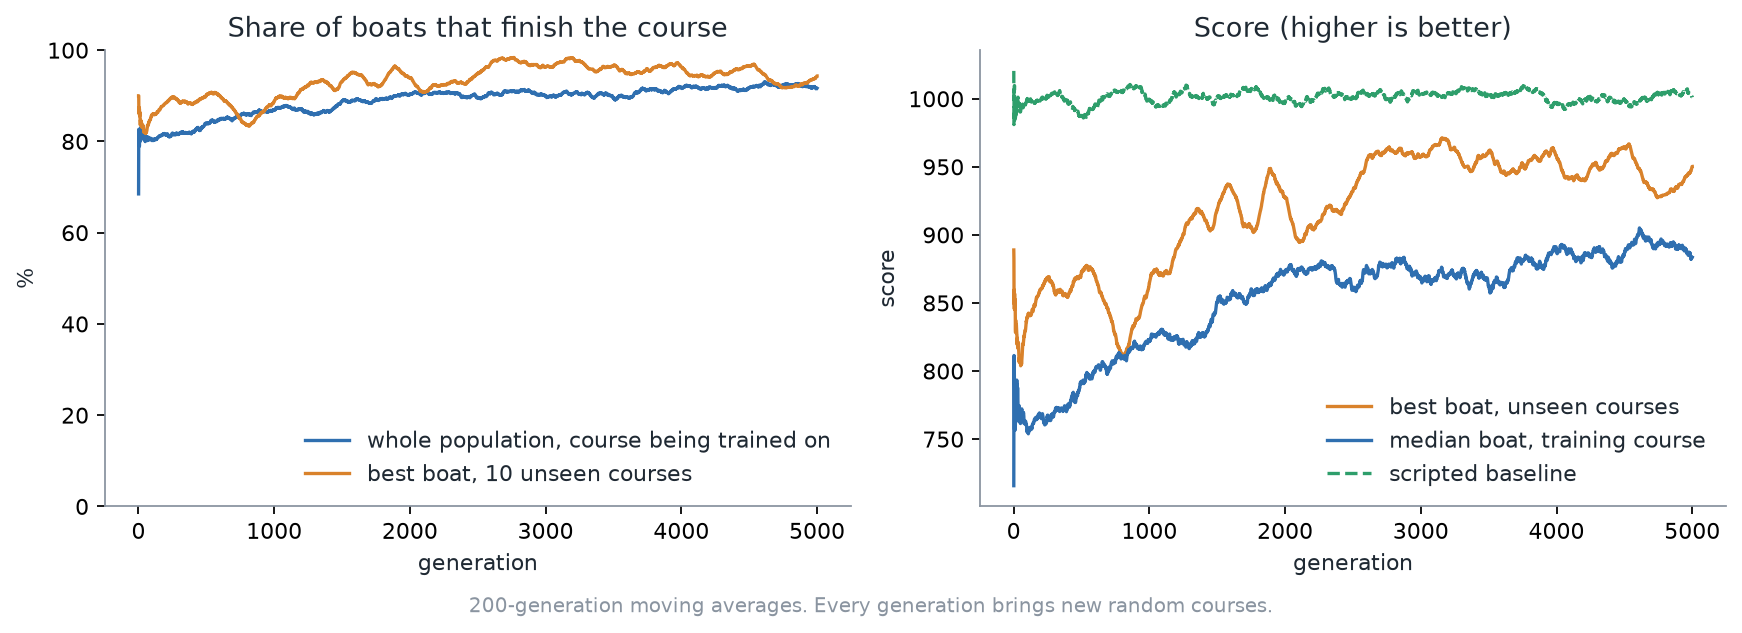
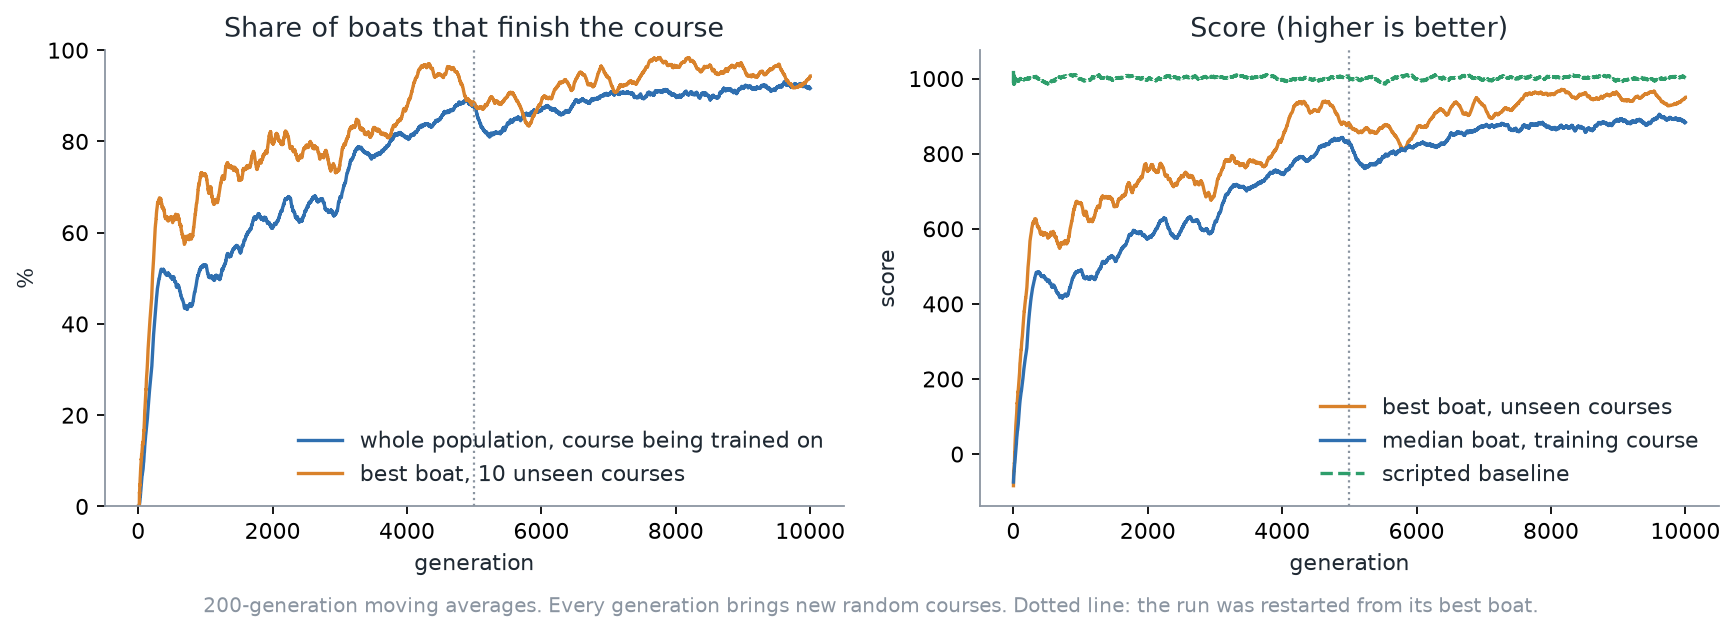
README: the h16-5k and h16-10k runs are one 10,000-generation run (restarted from the best boat at 5,000); figures and numbers cover both

diff --git a/python/scripts/readme_figures.py b/python/scripts/readme_figures.py
@@ -1,6 +1,9 @@
 """Draw the figures used in the top-level README from a finished evolution run.
 
-    .venv/bin/python python/scripts/readme_figures.py web/public/runs/h16-10k docs/img
+    .venv/bin/python python/scripts/readme_figures.py web/public/runs/h16-5k web/public/runs/h16-10k docs/img
+
+Every run but the last is followed by a run that was started from its best boat (`--init-from`), so the
+runs are drawn as one, generations counting on from the end of the previous one.
 """
 
 import json
@@ -29,7 +32,7 @@ def smooth(v, w=200):
     return out
 
 
-def learning(log, out):
+def learning(log, out, joins):
     g = log["generations"]
     x = [s["gen"] + 1 for s in g]
     fig, ax = plt.subplots(1, 2, figsize=(11, 3.8))
@@ -37,6 +40,9 @@ def learning(log, out):
         ax[0].plot(x, smooth([r[s] for r in g]) * 100, color=c, label=label)
     ax[0].plot(x, smooth([r["held_out"]["finish_rate"] for r in g]) * 100, color=ORANGE,
                label="best boat, 10 unseen courses")
+    for a in ax:
+        for j in joins:
+            a.axvline(j, color=MUTED, ls=":", lw=1)
     ax[0].set(title="Share of boats that finish the course", xlabel="generation", ylabel="%", ylim=(0, 100))
     ax[0].legend(frameon=False, loc="lower right")
     ax[1].plot(x, smooth([r["held_out"]["score"] for r in g]), color=ORANGE, label="best boat, unseen courses")
@@ -44,17 +50,23 @@ def learning(log, out):
     ax[1].plot(x, smooth([r["baseline_score"] for r in g]), color=GREEN, ls="--", label="scripted baseline")
     ax[1].set(title="Score (higher is better)", xlabel="generation", ylabel="score")
     ax[1].legend(frameon=False, loc="lower right")
-    fig.text(0.5, -0.02, "200-generation moving averages. Every generation brings new random courses.",
+    fig.text(0.5, -0.02, "200-generation moving averages. Every generation brings new random courses. Dotted line: the run was restarted from its best boat.",
              ha="center", color=MUTED, fontsize=9)
     fig.tight_layout()
     fig.savefig(out / "learning.png", dpi=160, bbox_inches="tight")
     plt.close(fig)
 
 
-def tracks(run, gens, out):
+def tracks(runs, gens, out):
+    """`gens` count over all the runs together; a replay is read from the run that holds it."""
+    sizes = [len(json.loads((run / "training.json").read_text())["generations"]) for run in runs]
     fig, axes = plt.subplots(1, len(gens), figsize=(3.6 * len(gens), 5.2))
-    for ax, gen in zip(axes, gens):
-        r = json.loads((run / f"gen_{gen:04d}.json").read_text())
+    for ax, overall in zip(axes, gens):
+        i, gen = 0, overall
+        while gen >= sizes[i]:
+            gen -= sizes[i]
+            i += 1
+        r = json.loads((runs[i] / f"gen_{gen:04d}.json").read_text())
         for i, b in reversed(list(enumerate(r["boats"]))):
             p = np.array(b["p"]).reshape(-1, 4)
             best = i == 0
@@ -66,7 +78,7 @@ def tracks(run, gens, out):
         ax.plot(*m.T, "o", color=INK, ms=3, zorder=4)
         done = sum(b["outcome"] == "finished" for b in r["boats"])
         w = r["wind"]
-        ax.set_title(f"generation {gen + 1}\n{done}/100 finished", fontsize=10)
+        ax.set_title(f"generation {overall + 1}\n{done}/100 finished", fontsize=10)
         ax.set_xlabel(f"wind {w['speed'] * 1.944:.0f} kn from {w['dir']:.0f}°", color=MUTED, fontsize=9)
         ax.set_aspect("equal")
         ax.set_xticks([]); ax.set_yticks([])
@@ -136,11 +148,15 @@ def physics(out):
 
 
 def main():
-    run, out = Path(sys.argv[1]), Path(sys.argv[2])
+    runs, out = [Path(a) for a in sys.argv[1:-1]], Path(sys.argv[-1])
     out.mkdir(parents=True, exist_ok=True)
-    log = json.loads((run / "training.json").read_text())
-    learning(log, out)
-    tracks(run, [0, 500, 2000, 4999], out)
+    generations, joins = [], []
+    for run in runs:
+        for row in json.loads((run / "training.json").read_text())["generations"]:
+            generations.append({**row, "gen": len(generations)})
+        joins.append(len(generations))
+    learning({"generations": generations}, out, joins[:-1])
+    tracks(runs, [0, 500, 2500, len(generations) - 1], out)
     physics(out)
 
 

diff --git a/README.md b/README.md
@@ -21,12 +21,12 @@ The yellow line is the apparent wind, the arrow around the boat points to the ne
 
 ![Boats at four points of training](docs/img/tracks.png)
 
-*The same population at generations 1, 501, 2001 and 5000, each on its own random course. Blue: all 100 boats. Orange: the best one. Grey circles: the marks.*
+*The same population at generations 1, 501, 2501 and 10000, each on its own random course. Blue: all 100 boats. Orange: the best one. Grey circles: the marks.*
 
 ## What it does
 
 - Each boat is a 16-unit network that reads 34 inputs (boat state, and every mark still to round) and outputs rudder, sheet and hike (leaning out).
-- Every generation all 100 boats sail the same 8 freshly drawn random courses (8 legs each), each in its own random wind (8 to 16 m/s, any direction), and a boat is scored on its mean. The best 10 % carry over unchanged and the rest are mutated copies of the best 30 %. The run is 5,000 generations, so 40,000 courses.
+- Every generation all 100 boats sail the same 8 freshly drawn random courses (8 legs each), each in its own random wind (8 to 16 m/s, any direction), and a boat is scored on its mean. The best 10 % carry over unchanged and the rest are mutated copies of the best 30 %. The run is 10,000 generations, so 80,000 courses. It was trained in two stretches of 5,000: the second restarted from the best boat of the first (see the step size below).
 - Score rewards progress, mark bonuses and a fast finish, and charges a time cost and a capsize penalty. The rudder has its full deflection (`--rudder-limit` can cap it).
 
 ## The boat
@@ -53,7 +53,7 @@ There is no gradient and no value function. The learner is a plain evolution str
 - **Policy:** 34 inputs (9 for the boat and wind, 3 for each of the 8 marks still to round, and how many are left), 16 tanh hidden units, 3 tanh outputs (rudder, sheet, hike). That is 611 numbers, stored as one flat vector per boat.
 - **Fitness:** the total `sailcourse` score of one episode (progress, mark bonuses, a finish bonus for speed, a time cost, a capsize penalty). Every boat in a generation sails the same courses and winds, so they are ranked on equal terms. A boat's fitness is its mean over the generation's 8 courses, and 30 % of the training legs are sharp reversals or close to the wind.
 - **Selection:** rank the 100 boats by score. The top 10 (elitism) carry over unchanged. The other 90 are copies of boats picked at random from the top 30, each with Gaussian noise added to every weight.
-- **Step size:** the noise starts at σ = 0.03 and shrinks linearly to 0.005 to polish.
+- **Step size:** the noise starts at σ = 0.1 and shrinks linearly to 0.01 over the first 5,000 generations. The second 5,000 start again from the best boat of the first (a new population of mutated copies of it) with σ = 0.03 shrinking to 0.005, to polish. Same seed both times.
 - **New courses every generation:** the elite are re-scored on each new set of courses, so a boat only stays on top if it holds up on the next ones.
 - **Held-out check:** each generation the best boat also sails 10 fixed unseen courses and the old figure 8. This is the generalisation curve in the results below.
 
@@ -71,18 +71,19 @@ The loop is `python/sailing/evolve.py`. Episodes run in parallel across processe
 
 ![The Training page, all 100 boats mid-run](docs/img/midrun.png)
 
-*The game's Training page at the last generation (5000), 40 s into the run: the 100 boats with wakes, rounding the marks (by now they sail almost the same line, so they overlap), and the training graphs on the right. Open it yourself with `/training.html?run=h16-10k&gen=5000&t=40`.*
+*The game's Training page at the last generation (10000, which the page shows as generation 5000 of the second stretch), 40 s into the run: the 100 boats with wakes, rounding the marks (by now they sail almost the same line, so they overlap), and the training graphs on the right. Open it yourself with `/training.html?run=h16-10k&gen=5000&t=40` (the first stretch is `run=h16-5k`).*
 
 | Generations | Finish rate (training courses) | Finish rate (best boat, unseen courses) | Score (best boat, unseen courses) |
 |---|---|---|---|
-| 1 to 1000 | 84 % | 88 % | 852 |
-| 1001 to 2000 | 88 % | 93 % | 915 |
-| 2001 to 3000 | 90 % | 95 % | 939 |
-| 3001 to 4000 | 91 % | 96 % | 956 |
-| 4001 to 5000 | 92 % | 94 % | 946 |
+| 1 to 2000 | 52 % | 68 % | 631 |
+| 2001 to 4000 | 72 % | 81 % | 761 |
+| 4001 to 6000 | 85 % | 91 % | 883 |
+| 6001 to 8000 | 89 % | 94 % | 927 |
+| 8001 to 10000 | 91 % | 95 % | 951 |
 
-- About 92 % of the population finishes the courses it is trained on, and the best boat finishes about 93 % of courses it has never seen (the last 500 generations). It almost never capsizes.
-- Progress is mostly in the first 3000 generations. After that the score on unseen courses wobbles around 940 to 960.
+- Over the last 500 generations about 92 % of the population finishes the courses it is trained on and the best boat finishes about 93 % of courses it has never seen. It almost never capsizes (about 2 % of boats in the first 2000 generations, 0.01 % in the last 2000).
+- The score on unseen courses climbs from about 570 (first 1000 generations) to about 950 and levels off near 950 over the last 2000 generations.
+- At generation 5001 the run restarts from the best boat, so the population finish rate drops for about a thousand generations (the dotted line in the graphs) before it passes its old level.
 - It does not yet beat the scripted baseline. The baseline scores about 1000 on a typical course, the best evolved boat about 940 on unseen ones.
 - The best boat finishes the old figure 8 every time in the last 500 generations.
 
@@ -90,17 +91,21 @@ The loop is `python/sailing/evolve.py`. Episodes run in parallel across processe
 
 ```sh
 cd python
+.venv/bin/python -m sailing.evolve --out ../web/public/runs/h16-5k \
+    --generations 5000 --population 100 --sigma 0.1 --sigma-final 0.01 \
+    --hidden 16 --courses-per-gen 8 --hard-fraction 0.3
 .venv/bin/python -m sailing.evolve --out ../web/public/runs/h16-10k \
+    --init-from ../web/public/runs/h16-5k/best.json \
     --generations 5000 --population 100 --sigma 0.03 --sigma-final 0.005 \
     --hidden 16 --courses-per-gen 8 --hard-fraction 0.3
 ```
 
-On 8 cores this takes a while (the 5,000-generation run). Then, in `web/`, `npm run dev` and open `/training.html`. See `python/README.md` for the options.
+On 8 cores this takes a while (each 5,000-generation stretch). Then, in `web/`, `npm run dev` and open `/training.html`. See `python/README.md` for the options.
 
-Regenerate the figures above from a finished run:
+Regenerate the figures above from the finished runs (the runs are drawn as one, in order):
 
 ```sh
-.venv/bin/python python/scripts/readme_figures.py web/public/runs/h16-10k docs/img
+.venv/bin/python python/scripts/readme_figures.py web/public/runs/h16-5k web/public/runs/h16-10k docs/img
 ```
 
 `docs/img/midrun.png` is a screenshot of the page itself (with `npx vite` running in `web/`):
